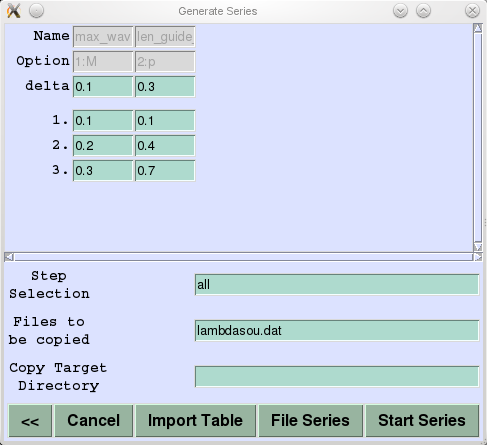
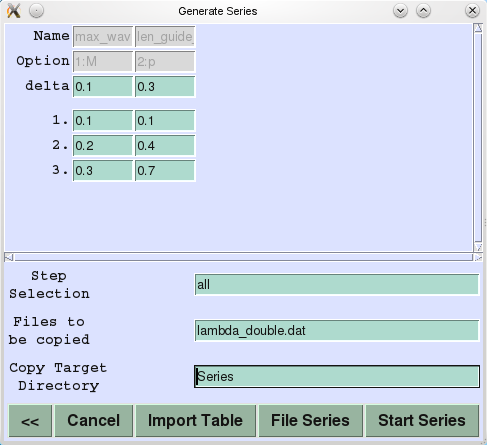
vitess2_10beta2
git-svn-id: https://www.helmholtz-berlin.de/svn/vitess/trunk@111 33272c4e-51e2-0310-a7f1-966f4c758275

diff --git a/WWW/sim_series.html b/WWW/sim_series.html
@@ -11,9 +11,9 @@
 <h1>VITESS Tool Generate Series</h1>
 To do a series of simulations, you start with an instrument you have
 developed using the GUI. Let's call it the 'standard instrument'. When you 
-have completed that, you choose the menu "File"-&gt;"Generate Series".
+have completed this, you choose the menu "File"-&gt;"Generate Series".
 <p>
-In the item 'Iterations' you give the number of desired simulations.
+With the item 'Iterations' you give the number of desired simulations.
 <br>
 Then you have to list parameters that are variable for the simulation. 
 All parameters that are not mentioned here have constant
@@ -49,6 +49,12 @@ parameters and as many rows as the number of &nbsp;simulations (or iterations)
 </ol>
 <img src="series2.png">
 <p>
+The table is to be filled with values then. To make things more convenient, empty cells
+of the table are interpreted as having the value of the standard instrument.
+<BR>
+You may load the table from a file generated with other means. VITESS accepts
+a space, tab, or semicolon separated text file.
+<p>
 You may define a whole column according to:
 <pre>
 value_i = value_1 + (i-1)*delta
@@ -58,31 +64,26 @@ has to be set and Enter be pressed, while the cursor is inside the delta cell.
 If the delta input is empty, pressing Enter repeats the first entry value to the
 whole column.
 <p>
-The table must now be filled to assign the whole series. To make things
-more convenient, empty cells of the table are interpreted as having the
-value of the standard instrument.
-<BR>
-You may load the table from a file generated with other means. VITESS accepts
-a space, tab, or semicolon separated text file.
-<p>
-To save the results of the simulation runs, you give a list of expected
-output file names, separated by white space, that shall be copied;
-Other result files could be overwritten by following simulation runs.
+To save the results of simulation runs, you give a list of expected
+output file names, separated by white space, that shall be copied. 
+"Copy Target Directory" names a directory, to be created if necessary,
+in the example this is the subdirectory Series.
 Listed result files are copied to newly named files 's1 _filename.ext', 's2_filename.ext', 
-etc. in the directory named in the 'CopyTargetDirectory' entry.
+etc. in the copy target directory.
+<br>
+Other result files could be overwritten by following simulation runs.
 <p>
 When the table is filled, the series of simulations can be started and 
 executed under GUI control.
 <p>
-If you save the series in a tcl-file, you may execute that tcl file from a tcl shell.
+If you save the series to a tcl-file, you may execute that tcl file from a tcl shell.
 <p>
 When editing the "Generate Series" parameters, you may easily switch back and 
 forth between GUI windows (click  '&lt;&lt;' and '&gt;&gt;') without losing
 information. It is  possible to go back to the first window and extend or change the series.
 In order to continue your work on the series, maybe after a change of standard instrument, you just
-choose the menu "File"-&gt;"Generate Series" again and continue, where you
+choose the menu "File"-&gt;"Generate Series" again and continue where you
 have stopped.
-
 <p>
  Restrictions:<pre>
    max. number of modules:              40
@@ -96,7 +97,7 @@ have stopped.
 
 <!-- Created: Mon Sep 27 14:55:48 MEST 2010 -->
 <!-- hhmts start -->
-Last modified: Mon Sep 27 15:16:48 MEST 2010
+Last modified: Thu Oct  7 10:48:07 MEST 2010
 <!-- hhmts end -->   
 </body>
 </html>
